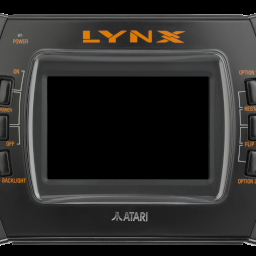
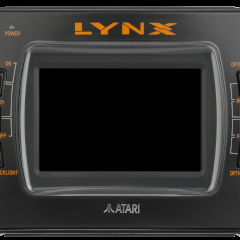
Added flicker to zoom.

Changed region(s): [[0.0, 0.0, 1.0, 0.9917], [0.9917, 0.1167, 1.0, 0.1458]]

diff --git a/source/Lynx.c b/source/Lynx.c
@@ -47,12 +47,7 @@ int getStateSize() {
 }
 
 static void setupBorderPalette(const unsigned short *palette, int len) {
-	if (gBorderEnable == 0) {
-		memcpy(EMUPALBUFF, LynxBorderPal, LynxBorderPalLen);
-	}
-	else {
-		memcpy(EMUPALBUFF, palette, len);
-	}
+	memcpy(EMUPALBUFF, palette, len);
 }
 
 #define BUFFER_WIDTH SCREEN_WIDTH
@@ -63,38 +58,41 @@ void setScreenMode(int mode) {
 	IntrWait(1, IRQ_VBLANK);
 	switch (mode) {
 		case 1:			// Rotate Left
-			REG_BG2X = (((SCREEN_WIDTH+SCREEN_HEIGHT)/2)-1)<<8;
-			REG_BG2Y = ((BUFFER_HEIGHT-SCREEN_WIDTH)/2)<<8;
+			GFX_BG2X = (((BUFFER_WIDTH+SCREEN_HEIGHT)/2)-1)<<8;
+			GFX_BG2Y = ((BUFFER_HEIGHT-SCREEN_WIDTH)/2)<<8;
 			REG_BG2PA = 0;
 			REG_BG2PB = -1<<8;
 			REG_BG2PC = 1<<8;
 			REG_BG2PD = 0;
 			break;
 		case 2:			// Rotate Right
-			REG_BG2X = ((SCREEN_WIDTH-SCREEN_HEIGHT)/2)<<8;
-			REG_BG2Y = (((BUFFER_HEIGHT+SCREEN_WIDTH)/2)-1)<<8;
+			GFX_BG2X = ((BUFFER_WIDTH-SCREEN_HEIGHT)/2)<<8;
+			GFX_BG2Y = (((BUFFER_HEIGHT+SCREEN_WIDTH)/2)-1)<<8;
 			REG_BG2PA = 0;
 			REG_BG2PB = 1<<8;
 			REG_BG2PC = -1<<8;
 			REG_BG2PD = 0;
 			break;
-		case 3:			// Zoom
-			REG_BG2X = ((BUFFER_WIDTH-GAME_WIDTH)/2)<<8;
-			REG_BG2Y = ((BUFFER_HEIGHT<<8)-SCREEN_HEIGHT*ZOOM_VAL)/2;
+		case 3:			// Zoom smooth
+//		case 4:			// Zoom
+			GFX_BG2X = ((BUFFER_WIDTH-GAME_WIDTH)/2)<<8;
+			GFX_BG2Y = ((BUFFER_HEIGHT<<8)-SCREEN_HEIGHT*ZOOM_VAL)/2;
 			REG_BG2PA = ZOOM_VAL;
 			REG_BG2PB = 0;
 			REG_BG2PC = 0;
 			REG_BG2PD = ZOOM_VAL;
 			break;
 		default:		// 1:1
-			REG_BG2X = 0;
-			REG_BG2Y = ((BUFFER_HEIGHT-SCREEN_HEIGHT)/2)<<8;
+			GFX_BG2X = 0;
+			GFX_BG2Y = ((BUFFER_HEIGHT-SCREEN_HEIGHT)/2)<<8;
 			REG_BG2PA = 1<<8;
 			REG_BG2PB = 0;
 			REG_BG2PC = 0;
 			REG_BG2PD = 1<<8;
 			break;
 	}
+	REG_BG2X = GFX_BG2X;
+	REG_BG2Y = GFX_BG2Y;
 }
 
 void setupLynxBackground() {

diff --git a/source/GUI.c b/source/GUI.c
@@ -16,7 +16,7 @@
 #include "ARMMikey/Version.h"
 #include "ARMSuzy/Version.h"
 
-#define EMUVERSION "V0.1.5 2026-08-09"
+#define EMUVERSION "V0.1.5 2026-08-11"
 
 void hacksInit(void);
 
@@ -71,7 +71,8 @@ const MItem ctrlItems[] = {
 	{"Swap A-B:   ", swapABSet, getSwapABText},
 };
 const MItem displayItems[] = {
-	{"Screen:", screenModeSet, getScreenModeText},
+	{"Screen: ", screenModeSet, getScreenModeText},
+	{"Scaling: ", flickSet, getFlickText},
 	{"Gamma: ", gammaChange, getGammaText},
 	{"Contrast: ", contrastSet, getContrastText},
 //	{"Border: ", borderSet, getBorderText},

diff --git a/source/Gfx.h b/source/Gfx.h
@@ -20,6 +20,8 @@ extern u16 EMUPALBUFF[0x200];
 extern u32 GFX_DISPCNT;
 extern u16 GFX_BG0CNT;
 extern u16 GFX_BG1CNT;
+extern u32 GFX_BG2X;
+extern u32 GFX_BG2Y;
 
 void gfxInit(void);
 void gfxPowerOff(void);
